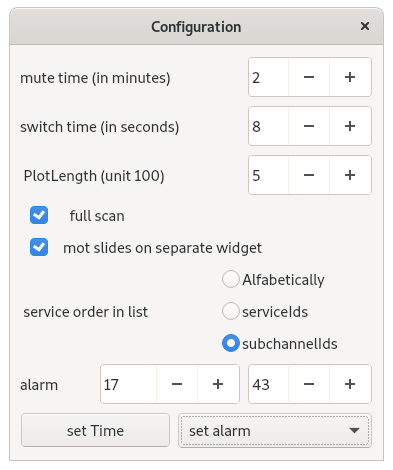
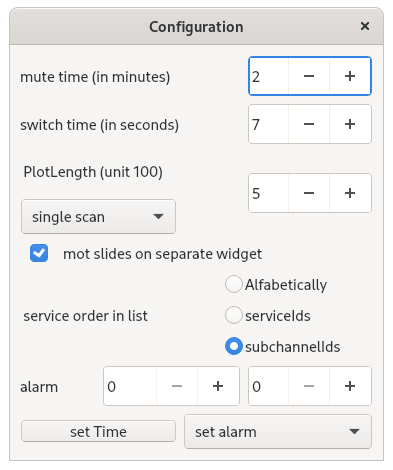
README

diff --git a/README.md b/README.md
@@ -2,12 +2,6 @@
 
 Qt-DAB-3.6 is software for Linux and Raspberry Pi for listening to terrestrial Digital Audio Broadcasting (DAB and DAB+). Qt-DAB is accompanied by its little sister dabMini and brother dab-2 for experimenting, all built on the same set of sources.
 
----------------------------------------------------------------------
-DISCLAIMER
----------------------------------------------------------------------
-
-Current release, 3.6, is a Prerelease
-
 --------------------------------------------------------------------
 DISCLAIMER 
 --------------------------------------------------------------------
@@ -53,9 +47,9 @@ Currently, there are the following settings:
 
 	b. the *mute* time, the time - in minutes - that audio mutes;
 
-	c. the *plotLength*, the length of the X-axis in the correlation display.
+	c. the *plotLength*, the length of the X-axis in the correlation display expressed in entities of 100 samples;
 
-	d. *full scan* selector, scan the while band (default), or until a DABsignal is detected.
+	d. *full scan* selector, scan the while band once (default), continuously, or until a DABsignal is detected.
 
 	e. *mot slides* selector, show slides in a separate window when checked, otherwise as part of the technical data widget. 
 
@@ -77,8 +71,6 @@ and those in the presets.
 
 The GUI contains an indicator which shows when the alarm is set, when no
 alarm is set, the small label is not shown.
-
-**The GUI elements for this feature are - still - experimental.**
 
 Of course, the coloring, as implemented in 3.5.3 also applies to the config
 button.
@@ -198,6 +190,7 @@ Features
   	- SDRplay ( RSP I, RSP II, RSP Duo and RSP Dx), with separate entries for v2 and v3 library
 	- limeSDR, 
 	- Soapy (experimental, Linux only), 
+	- ExtIO (expertimental, Windows only),
    	- prerecorded dump (*.raw, *.iq and *.sdr),
 	- xml format files, and
 	- rtl_tcp servers.
